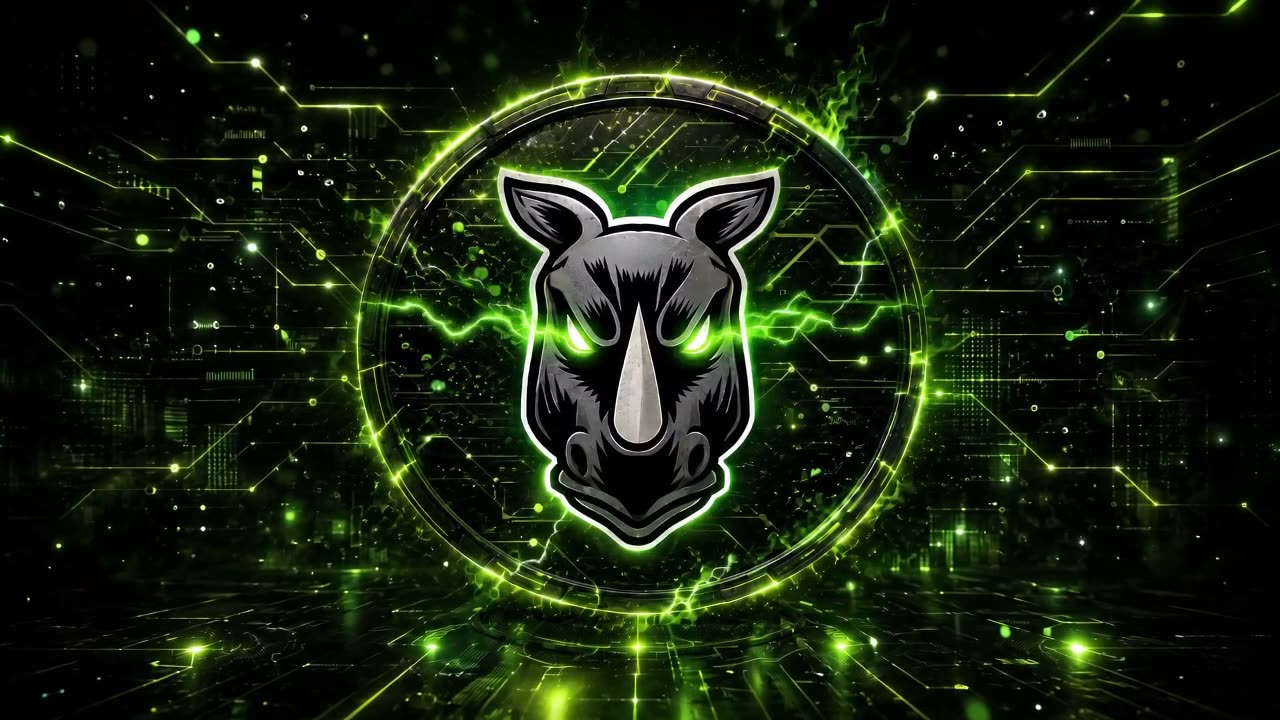
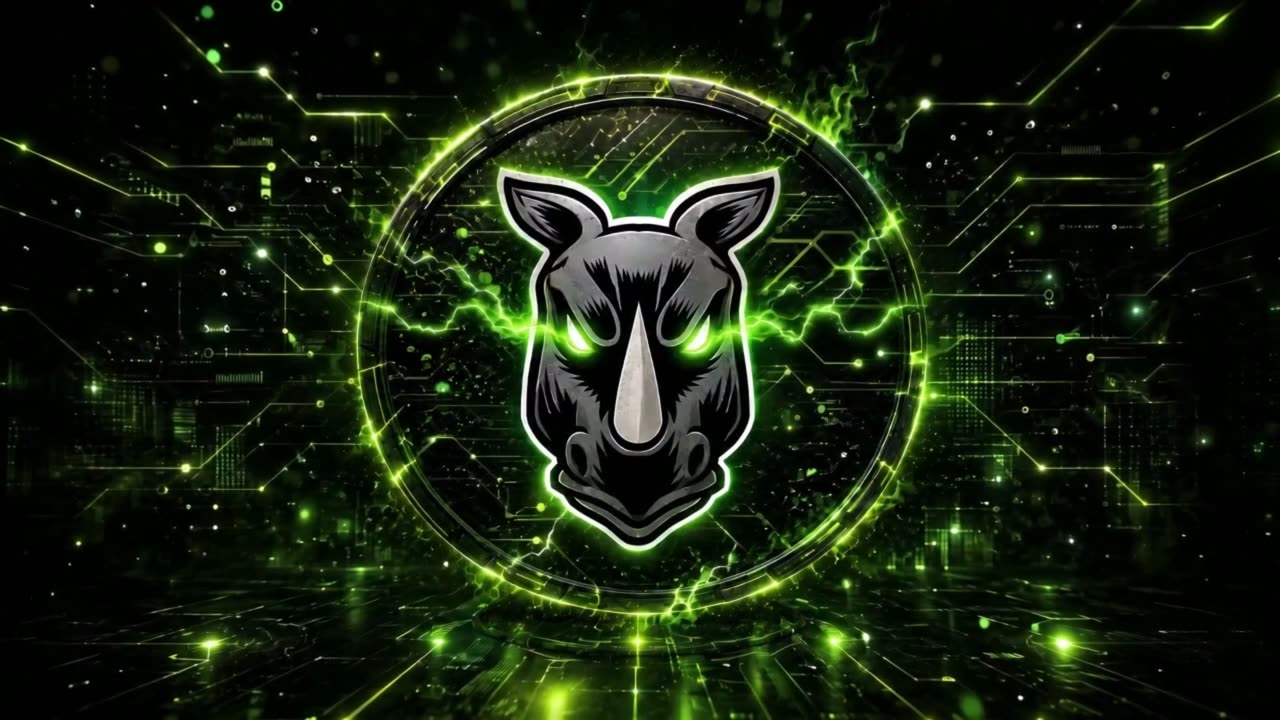
Swap hero background video and restore looping
New Video Project artwork compressed from 36MB/1080p to 1.8MB/720p;
loop attribute re-added per owner preference.

diff --git a/index.html b/index.html
@@ -71,7 +71,7 @@
   <section class="hero">
     <div class="hero-bg" aria-hidden="true"></div>
     <div class="hero-art" aria-hidden="true">
-      <video class="hero-art-video" autoplay muted playsinline preload="auto" poster="assets/hero-poster.jpg">
+      <video class="hero-art-video" autoplay muted loop playsinline preload="auto" poster="assets/hero-poster.jpg">
         <source src="assets/hero-video.mp4" type="video/mp4">
       </video>
     </div>